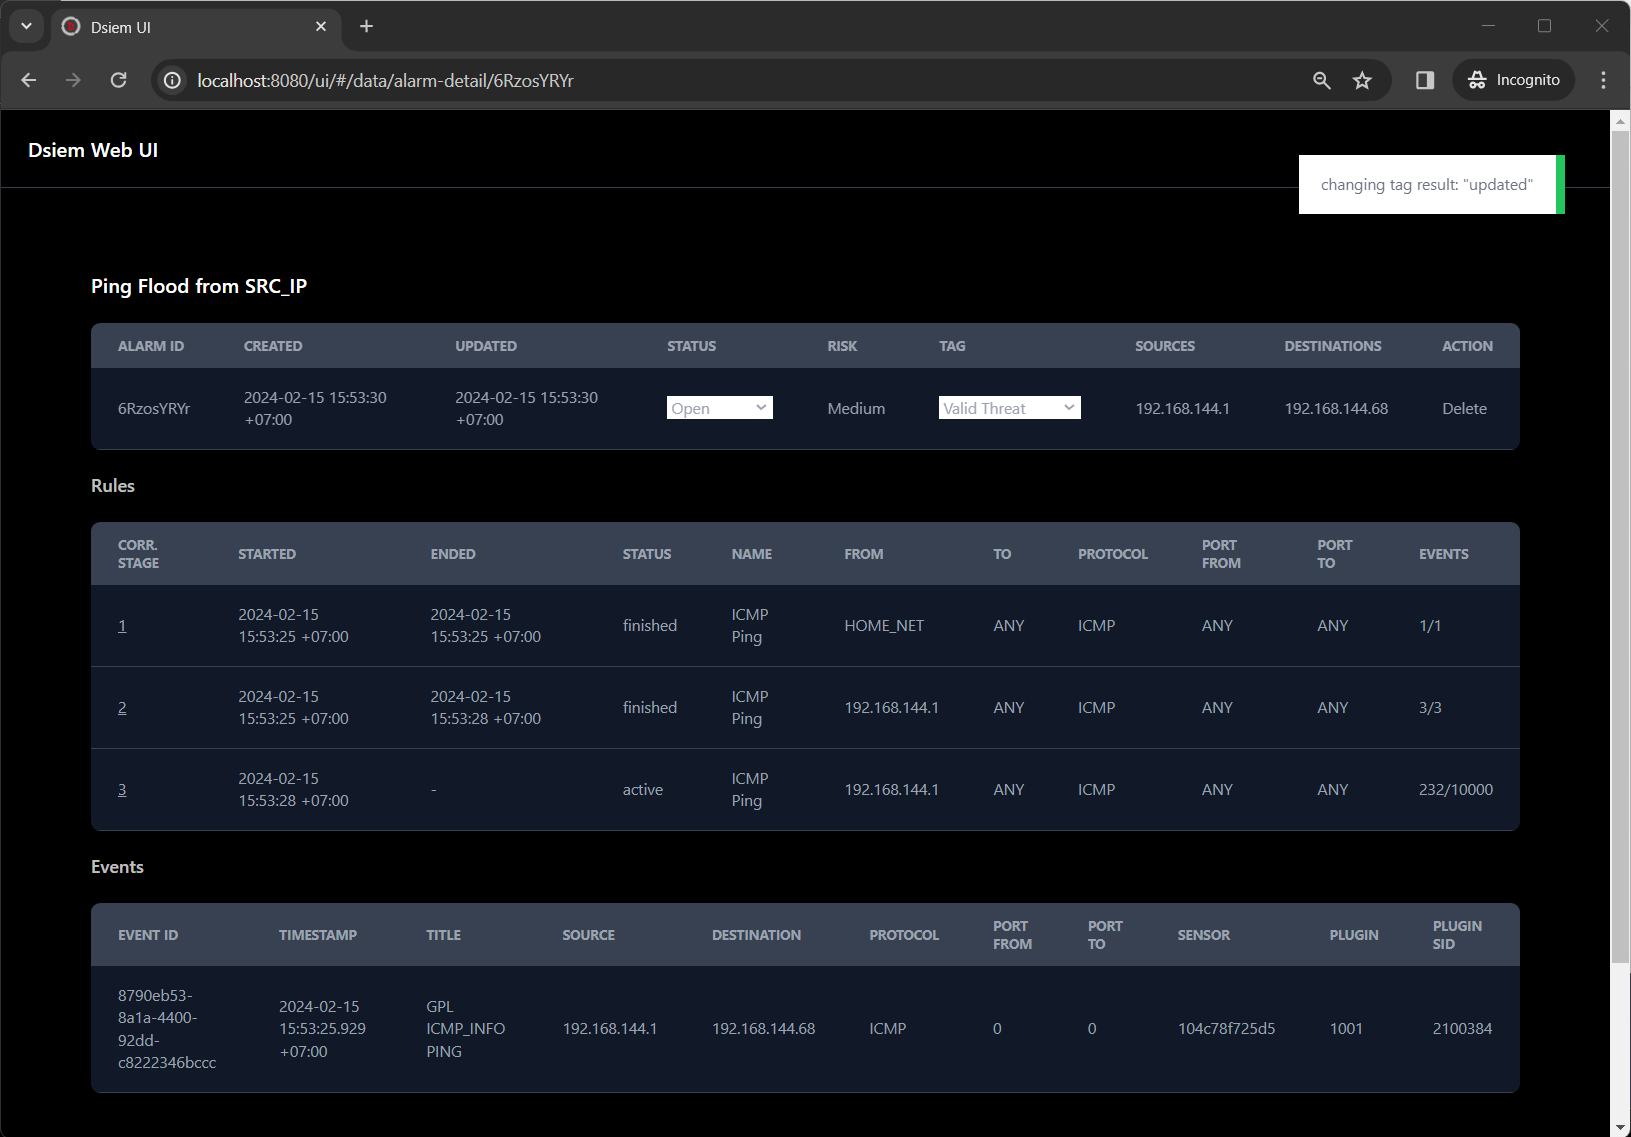
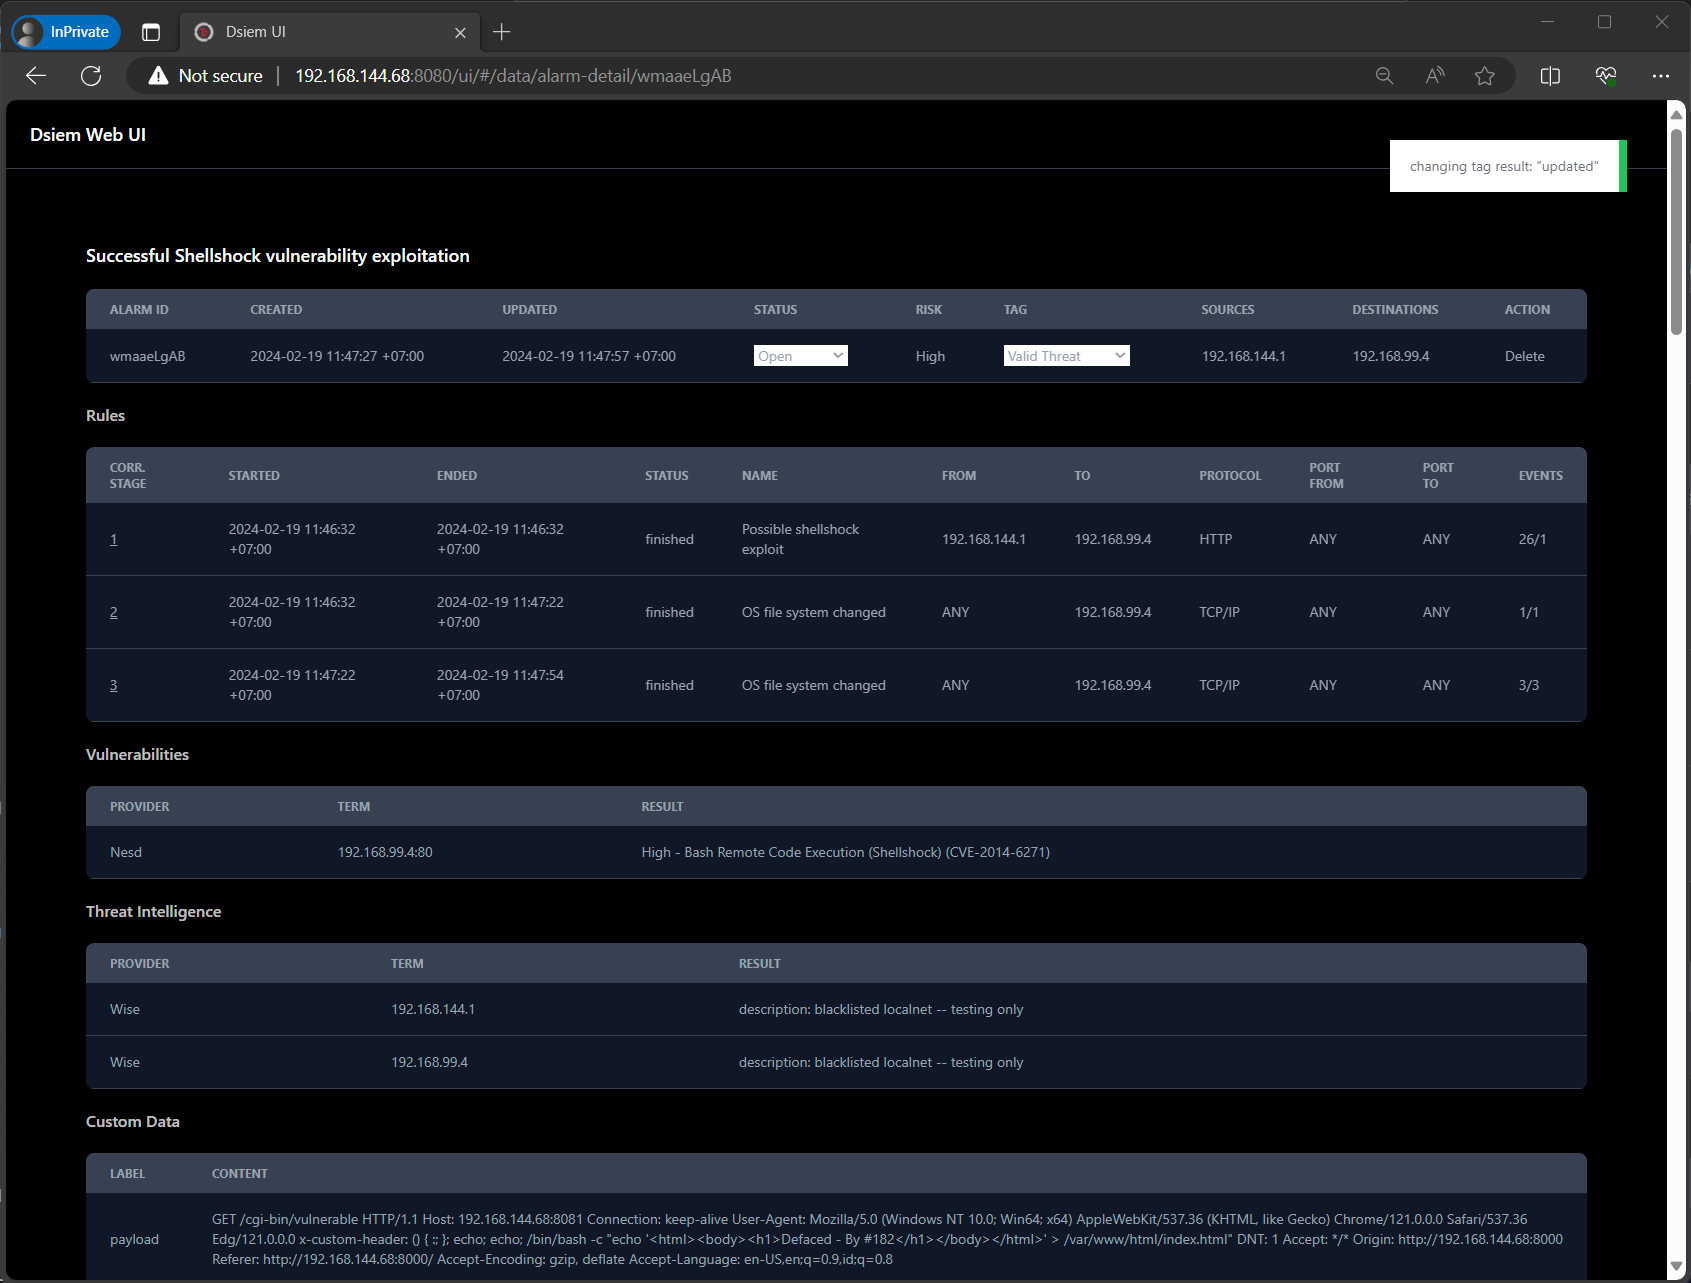
docs: update info and screenshot (#14)
* docs: update screenshot for web UI
[skip ci]

* docs: remove obsolete info

* docs: add missing info

diff --git a/docs/faq.md b/docs/faq.md
@@ -26,14 +26,6 @@ Whatever additional functionalities you think should be in Dsiem, they're probab
 
 To further illustrate this point, the only reason there's a web UI for Dsiem is because Kibana doesn't have a widget to do two things that we need: updating a document's field (alarm's `status` and `tags`), and presenting a many-many relationship (between `siem_alarms` and `siem_events` indices, through `siem_alarm_events`).
 
-## Elastic already has its own SIEM, why should I use Dsiem?
-
-Dsiem, OSSIM, and other similar systems that produce alarms based on predefined correlation rules have their own advantages in certain areas over the more flexible and ad hoc approach that systems like Elastic SIEM have.
-
-For instance, the quantity of alarms produced by correlation rules will always be many orders of magnitude fewer than the number of events coming into the system. An alarm-based system allows security monitoring team to have a measurable baseline performance target like, "all alarms shall be investigated within 30 minutes timeframe". That kind of coverage commitment will be harder to formulate when the team have to deal directly with all the raw events coming into the system.
-
-That said, there's no reason not to use both approaches if you have the resources for it. At Defenxor we use correlation rules to deal with known and repetitive threats, and the more flexible approach that Kibana and Elastic SIEM offer to look for patterns that could potentially be used as new rules.
-
 ## Why alarms have to flow from Dsiem → Filebeat → Logstash → Elasticsearch? Can't you send directly to ES?
 
 Filebeat is used so Dsiem doesn't have to deal with network related errors or congestion in Logstash pipeline. Logstash is used so we can transform data as much as possible using its filter configuration instead of having to code them inside Dsiem. Elasticsearch API and client libraries changes frequently, so sending alarms directly to Elasticsearch may requires us to maintain a specific Dsiem version for each version of Elasticsearch.
@@ -114,23 +106,11 @@ Alternative #2: Adjust the `docker-compose.yml` configuration
 
   Replace `localhost` above with the actual server IP address or hostname that is accessible from the browser.
 
-- Then search for this line in the same file above:
-
-  ```yaml
-  - http.cors.allow-origin=/https?:\/\/localhost(:[0-9]+)?/
-  ```
-
-  and replace it with:
-
-  ```yaml
-  - http.cors.allow-origin=*
-  ```
-
 - Refresh Dsiem container:
   ```shell
   docker-compose up -d
   ```
-- Access Dsiem web UI from http://your-server-ip:8080/ui/
+- Access Kibana from http://your-server-ip:5601, `Dsiem Link` from the dashboard will now open Dsiem UI at http://your-server-ip:8080/. 
 
 ## How to restrict access to and/or lockdown the web UI?
 

diff --git a/docs/security.md b/docs/security.md
@@ -10,5 +10,5 @@ On the design side, we aimed to:
 * Provide secure defaults. For instance, Write access to configs directory is only needed by web UI and is therefore turned off by-default.
 
 On the implementation side, we tried to:
-* Check and handle all errors appropriately. Go verbose error handling style and early return convention makes it easy to reason about errors and their potential impact. 
-* For the HTTP endpoint part, obviously we try to check all user inputs and return [418 status code](https://developer.mozilla.org/en-US/docs/Web/HTTP/Status/418) as needed.
+* Check and handle all errors appropriately, and maintain a high test coverage.
+* For the HTTP endpoint part, obviously we check all user inputs and return [418 status code](https://developer.mozilla.org/en-US/docs/Web/HTTP/Status/418) as needed.

diff --git a/docs/building.md b/docs/building.md
@@ -4,7 +4,7 @@
 
 - A Unix shell environment, with a working `git` and `docker` command.
 - [Rust](https://www.rust-lang.org/tools/install) tools.
-- Basic [NodeJs] 
+- Basic [NodeJs](https://nodejs.org/en/download) environment for the CSS files.
 
 ## Steps
 
